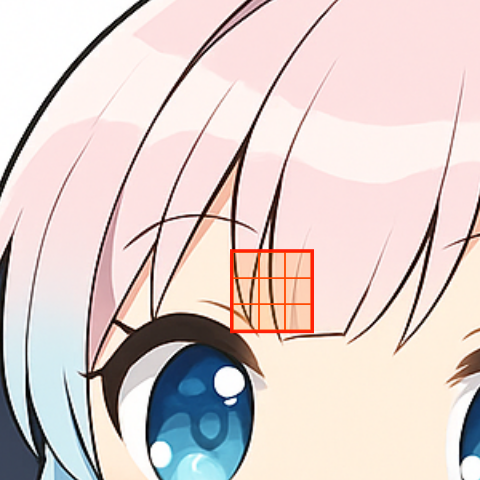
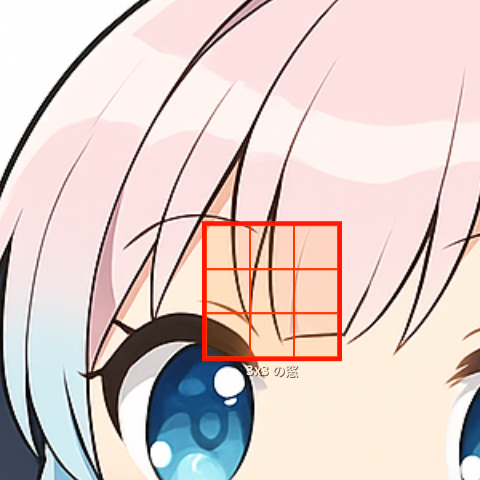
行列積のしくみを説明するためのスタイルを追加し、画像を修正

Changed region(s): [[0.4062, 0.4375, 0.7188, 0.7812]]

diff --git a/deep-learning-for-rocm.html b/deep-learning-for-rocm.html
@@ -137,10 +137,24 @@
     .conv-img-item figcaption {
       font-size: 12px; color: var(--muted); text-align: center; line-height: 1.3;
     }
-    .conv-op { font-size: 26px; color: var(--muted); font-weight: 700; flex-shrink: 0; }
+    /* flow arrow between conv images */
+    .conv-flow {
+      display: flex; flex-direction: column; align-items: center;
+      gap: 3px; flex-shrink: 0; color: var(--muted);
+    }
+    .conv-flow .arrow { font-size: 22px; line-height: 1; }
+    .conv-flow .flow-lbl {
+      font-size: 11px; text-align: center; max-width: 80px; line-height: 1.3;
+    }
     .conv-imgs-caption {
-      font-size: 13px; color: var(--muted); text-align: center; margin: 0 0 20px;
+      font-size: 13px; color: var(--muted); text-align: center; margin: 4px 0 20px;
       line-height: 1.55;
+    }
+    .conv-sobel-note {
+      font-size: 12px; text-align: center; color: #455A64;
+      background: #F1F8E9; border: 1px solid #C5E1A5;
+      border-radius: 6px; padding: 5px 10px; margin: 0 0 6px;
+      display: inline-block;
     }
 
     /* solver table */

diff --git a/fix_images.py b/fix_images.py
@@ -1,0 +1,252 @@
+#!/usr/bin/env python3
+"""
+Fix 1: matmul-how-it-works.png  — replace y₁/y₂ (Unicode sub) with y1/y2 (ASCII)
+Fix 2: convolution-akatsuki-window.png — larger, clearer 3×3 observation window
+Fix 3: convolution-feature-map-example.png — grayscale edge detection look
+"""
+import cairo
+
+OUT = '/home/limonene/ROCm-project/vega-hbmx-pages/media/img/'
+
+# ════════════════════════════════════════════════════════════════════════════════
+# FIX 1 — Regenerate matmul-how-it-works.png (ASCII labels for y1/y2)
+# ════════════════════════════════════════════════════════════════════════════════
+W, H = 800, 410
+out = cairo.ImageSurface(cairo.FORMAT_ARGB32, W, H)
+ctx = cairo.Context(out)
+
+BG     = (0.988, 0.988, 0.972)
+INK    = (0.08,  0.08,  0.15)
+MUTED  = (0.45,  0.45,  0.55)
+BORDER = (0.50,  0.50,  0.58, 1.0)
+C_R1   = (1.00, 0.63, 0.12, 0.78)
+C_R1_B = (0.82, 0.38, 0.0)
+C_R2   = (0.52, 0.18, 0.80, 0.68)
+C_R2_B = (0.42, 0.08, 0.68)
+C_VEC  = (0.10, 0.52, 0.88, 0.62)
+C_VEC_B= (0.0,  0.30, 0.65)
+C_RES1 = (1.00, 0.55, 0.10, 0.90)
+C_RES2 = (0.58, 0.22, 0.82, 0.88)
+
+ctx.set_source_rgb(*BG); ctx.paint()
+
+def cell(x, y, w, h, text, fill_rgba, fs=17):
+    r, g, b, a = fill_rgba
+    ctx.set_source_rgba(r, g, b, a)
+    ctx.rectangle(x+1, y+1, w-2, h-2); ctx.fill()
+    ctx.set_source_rgba(*BORDER); ctx.set_line_width(1.1)
+    ctx.rectangle(x, y, w, h); ctx.stroke()
+    ctx.set_source_rgb(*INK)
+    ctx.select_font_face('sans-serif', cairo.FONT_SLANT_NORMAL, cairo.FONT_WEIGHT_BOLD)
+    ctx.set_font_size(fs); te = ctx.text_extents(text)
+    ctx.move_to(x+(w-te.width)/2-te.x_bearing, y+(h+te.height)/2)
+    ctx.show_text(text)
+
+def bracket(x0, x1, yt, yb, lw=2.5):
+    ctx.set_line_width(lw); ctx.set_source_rgb(0.30, 0.30, 0.40)
+    for bx, s in [(x0, 1), (x1, -1)]:
+        ctx.move_to(bx+s*5, yt); ctx.line_to(bx, yt)
+        ctx.line_to(bx, yb); ctx.line_to(bx+s*5, yb); ctx.stroke()
+
+def label(x, y, text, color=MUTED, fs=11.5, bold=False):
+    ctx.select_font_face('sans-serif', cairo.FONT_SLANT_NORMAL,
+        cairo.FONT_WEIGHT_BOLD if bold else cairo.FONT_WEIGHT_NORMAL)
+    ctx.set_font_size(fs); ctx.set_source_rgb(*color)
+    ctx.move_to(x, y); ctx.show_text(text)
+
+def operator(cx, cy, text, fs=24):
+    ctx.select_font_face('sans-serif', cairo.FONT_SLANT_NORMAL, cairo.FONT_WEIGHT_NORMAL)
+    ctx.set_font_size(fs); ctx.set_source_rgb(*MUTED)
+    te = ctx.text_extents(text)
+    ctx.move_to(cx-te.width/2-te.x_bearing, cy); ctx.show_text(text)
+
+MAT = [[0.5, 0.2, 0.3], [0.1, 0.7, 0.2]]
+XVEC = [80, 70, 90]; YVEC = [81, 75]
+CW, CH = 66, 46; MX, MY = 36, 52
+
+# Title
+ctx.select_font_face('sans-serif', cairo.FONT_SLANT_NORMAL, cairo.FONT_WEIGHT_BOLD)
+ctx.set_font_size(13.5); ctx.set_source_rgb(0.18, 0.18, 0.28)
+t = '行ごとに「掛けて足す」— 行列積のしくみ'
+te = ctx.text_extents(t); ctx.move_to((W-te.width)/2, 28); ctx.show_text(t)
+
+label(MX+CW//2-8, MY-8, '重みの行列  W', bold=True, fs=11, color=(0.22,0.22,0.32))
+for r in range(2):
+    c = C_R1 if r == 0 else C_R2
+    for col in range(3):
+        cell(MX+col*CW, MY+r*CH, CW, CH, str(MAT[r][col]), c)
+
+label(MX+3*CW+8, MY+CH//2+4,       '← 行 1', color=C_R1_B, fs=11, bold=True)
+label(MX+3*CW+8, MY+CH+CH//2+4,    '← 行 2', color=C_R2_B, fs=11, bold=True)
+bracket(MX-8, MX+3*CW+8, MY, MY+2*CH)
+
+OP1X = MX+3*CW+66; operator(OP1X, MY+CH+14, 'x', 30)
+VX = OP1X+32; VY = MY
+label(VX+5, VY-8, '入力ベクトル  x', bold=True, fs=11, color=C_VEC_B)
+for i in range(3):
+    cell(VX, VY+i*CH, CW-6, CH, str(XVEC[i]), C_VEC)
+bracket(VX-8, VX+CW-6+8, VY, VY+3*CH)
+
+OP2X = VX+CW-6+46; operator(OP2X, MY+CH+14, '=', 30)
+RX = OP2X+30; RY = MY+CH//2
+label(RX+4, RY-8, '出力ベクトル  y', bold=True, fs=11, color=(0.40,0.18,0.0))
+for i in range(2):
+    cell(RX, RY+i*CH, CW-6, CH, str(YVEC[i]), C_RES1 if i==0 else C_RES2)
+bracket(RX-8, RX+CW-6+8, RY, RY+2*CH)
+
+DIV_Y = MY+3*CH+22
+ctx.set_source_rgba(0.68,0.68,0.74,0.45); ctx.set_line_width(1.0)
+ctx.move_to(20, DIV_Y); ctx.line_to(W-20, DIV_Y); ctx.stroke()
+
+MW, MH, FS = 40, 28, 13
+CALC_Y = DIV_Y+16
+
+def arith_row(start_x, base_y, pairs, row_color, res_val, res_color):
+    cx = start_x; mid_y = base_y+MH//2+4
+    for i, (w, x, p) in enumerate(pairs):
+        if i > 0:
+            ctx.select_font_face('sans-serif', cairo.FONT_SLANT_NORMAL, cairo.FONT_WEIGHT_NORMAL)
+            ctx.set_font_size(15); ctx.set_source_rgb(*MUTED)
+            ctx.move_to(cx+3, mid_y); ctx.show_text('+'); cx += 18
+        cell(cx, base_y, MW, MH, str(w), row_color, FS); cx += MW
+        ctx.set_font_size(13); ctx.set_source_rgb(*MUTED)
+        ctx.move_to(cx+1, mid_y); ctx.show_text('x'); cx += 13
+        cell(cx, base_y, MW, MH, str(x), C_VEC, FS); cx += MW+8
+    ctx.set_font_size(18); ctx.set_source_rgb(*MUTED)
+    ctx.move_to(cx+4, mid_y+1); ctx.show_text('='); cx += 28
+    for i, (_, _, p) in enumerate(pairs):
+        if i > 0:
+            ctx.set_font_size(15); ctx.set_source_rgb(*MUTED)
+            ctx.move_to(cx+3, mid_y); ctx.show_text('+'); cx += 18
+        cell(cx, base_y, MW, MH, str(p), row_color, FS); cx += MW+6
+    ctx.set_font_size(18); ctx.set_source_rgb(*MUTED)
+    ctx.move_to(cx+4, mid_y+1); ctx.show_text('='); cx += 28
+    cell(cx, base_y, MW+8, MH, str(res_val), res_color, FS+1)
+
+# ← ASCII labels: "y1" and "y2" (no Unicode subscripts)
+label(24, CALC_Y+MH-2, 'y1 の計算：', color=C_R1_B, fs=12, bold=True)
+arith_row(130, CALC_Y, [(0.5,80,40),(0.2,70,14),(0.3,90,27)], C_R1, 81, C_RES1)
+
+CALC_Y2 = CALC_Y+MH+18
+label(24, CALC_Y2+MH-2, 'y2 の計算：', color=C_R2_B, fs=12, bold=True)
+arith_row(130, CALC_Y2, [(0.1,80,8),(0.7,70,49),(0.2,90,18)], C_R2, 75, C_RES2)
+
+ctx.select_font_face('sans-serif', cairo.FONT_SLANT_NORMAL, cairo.FONT_WEIGHT_NORMAL)
+ctx.set_font_size(11); ctx.set_source_rgb(*MUTED)
+note = '行ごとに：対応する重み × 入力 をすべて足すと、その行の出力値が得られる'
+te = ctx.text_extents(note); ctx.move_to((W-te.width)/2, CALC_Y2+MH+22); ctx.show_text(note)
+
+out.write_to_png(OUT+'matmul-how-it-works.png')
+print('Fix 1 done: matmul-how-it-works.png')
+
+
+# ════════════════════════════════════════════════════════════════════════════════
+# FIX 2 + 3 — Regenerate convolution images
+# ════════════════════════════════════════════════════════════════════════════════
+SRC = '/home/limonene/ROCm-project/vega-hbmx-pages/media/img/akatsuki-overview.png'
+src = cairo.ImageSurface.create_from_png(SRC)
+SW = src.get_width(); SH = src.get_height(); STRIDE = src.get_stride()
+src_bytes = bytes(src.get_data())
+CX0, CY0, CW2, CH2 = 250, 140, 300, 300
+
+# Precompute grayscale
+GX0 = CX0-1; GY0 = CY0-1; GW = CW2+2; GH = CH2+2
+gray = [[0]*GW for _ in range(GH)]
+for gy in range(GH):
+    sy = max(0, min(SH-1, GY0+gy)); roff = sy*STRIDE
+    for gx in range(GW):
+        sx = max(0, min(SW-1, GX0+gx)); off = roff+sx*4
+        b=src_bytes[off]; g=src_bytes[off+1]; r=src_bytes[off+2]
+        gray[gy][gx] = (r*77+g*150+b*29)>>8
+
+# Sobel-x
+edge = [[0]*CW2 for _ in range(CH2)]; max_e = 1
+for cy in range(CH2):
+    gy = cy+1
+    for cx in range(CW2):
+        gxi = cx+1
+        val = (-gray[gy-1][gxi-1]+gray[gy-1][gxi+1]
+               -2*gray[gy][gxi-1]+2*gray[gy][gxi+1]
+               -gray[gy+1][gxi-1]+gray[gy+1][gxi+1])
+        v = abs(val); edge[cy][cx] = v
+        if v > max_e: max_e = v
+
+# Best window position
+best_x, best_y, best_v = CW2//2, CH2//4, 0
+for cy in range(CH2//6, 5*CH2//6, 3):
+    for cx2 in range(CW2//6, 5*CW2//6, 3):
+        if edge[cy][cx2] > best_v:
+            best_v = edge[cy][cx2]; best_x, best_y = cx2, cy
+print(f'  window at ({best_x},{best_y}), edge={best_v}')
+
+# ── Fix 2: window image — larger, clearer 3×3 grid ──────────────────────────
+OUT1 = 480; sc1 = OUT1/CW2
+out1 = cairo.ImageSurface(cairo.FORMAT_ARGB32, OUT1, OUT1)
+ctx1 = cairo.Context(out1)
+
+ctx1.save()
+ctx1.scale(sc1, sc1); ctx1.translate(-CX0, -CY0)
+ctx1.set_source_surface(src, 0, 0)
+ctx1.get_source().set_filter(cairo.Filter.BILINEAR)
+ctx1.paint(); ctx1.restore()
+
+# 3x3 grid: CELL1=44px → grid = 132×132px in 480px image (clearly visible)
+CELL1 = 44
+gx0 = best_x * sc1 - CELL1 * 1.5
+gy0 = best_y * sc1 - CELL1 * 1.5
+
+# Semi-transparent fill per cell
+for row in range(3):
+    for col in range(3):
+        rx = gx0 + col*CELL1; ry = gy0 + row*CELL1
+        ctx1.set_source_rgba(1.0, 0.50, 0.05, 0.15)
+        ctx1.rectangle(rx, ry, CELL1, CELL1); ctx1.fill()
+        ctx1.set_source_rgba(1.0, 0.22, 0.0, 0.92)
+        ctx1.set_line_width(2.0)
+        ctx1.rectangle(rx, ry, CELL1, CELL1); ctx1.stroke()
+
+# Outer border (thicker)
+ctx1.set_source_rgba(1.0, 0.08, 0.0, 0.97)
+ctx1.set_line_width(4.0)
+ctx1.rectangle(gx0-2, gy0-2, 3*CELL1+4, 3*CELL1+4); ctx1.stroke()
+
+# Small label "3×3 の窓" below the box
+ctx1.select_font_face('sans-serif', cairo.FONT_SLANT_NORMAL, cairo.FONT_WEIGHT_BOLD)
+ctx1.set_font_size(13)
+ctx1.set_source_rgba(1.0, 0.9, 0.8, 0.96)
+lbl = '3x3 の窓'
+te = ctx1.text_extents(lbl)
+lx = gx0 + (3*CELL1 - te.width) / 2
+ly = gy0 + 3*CELL1 + 18
+# Shadow
+ctx1.set_source_rgba(0, 0, 0, 0.55)
+ctx1.move_to(lx+1, ly+1); ctx1.show_text(lbl)
+# Text
+ctx1.set_source_rgba(1.0, 0.92, 0.82, 1.0)
+ctx1.move_to(lx, ly); ctx1.show_text(lbl)
+
+out1.write_to_png(OUT+'convolution-akatsuki-window.png')
+print('Fix 2 done: convolution-akatsuki-window.png')
+
+# ── Fix 3: feature map — clean grayscale ────────────────────────────────────
+feat = bytearray(CW2 * CH2 * 4)
+for cy in range(CH2):
+    for cx2 in range(CW2):
+        v = int(edge[cy][cx2] / max_e * 255)
+        off = (cy*CW2+cx2)*4
+        feat[off] = v; feat[off+1] = v; feat[off+2] = v; feat[off+3] = 255
+
+feat_surf = cairo.ImageSurface.create_for_data(
+    feat, cairo.FORMAT_ARGB32, CW2, CH2, CW2*4)
+
+OUT3 = 480
+out3 = cairo.ImageSurface(cairo.FORMAT_ARGB32, OUT3, OUT3)
+ctx3 = cairo.Context(out3)
+ctx3.scale(OUT3/CW2, OUT3/CH2)
+ctx3.set_source_surface(feat_surf, 0, 0)
+ctx3.get_source().set_filter(cairo.Filter.BILINEAR)
+ctx3.paint()
+out3.write_to_png(OUT+'convolution-feature-map-example.png')
+print('Fix 3 done: convolution-feature-map-example.png')
+
+print('\nAll fixes applied.')
